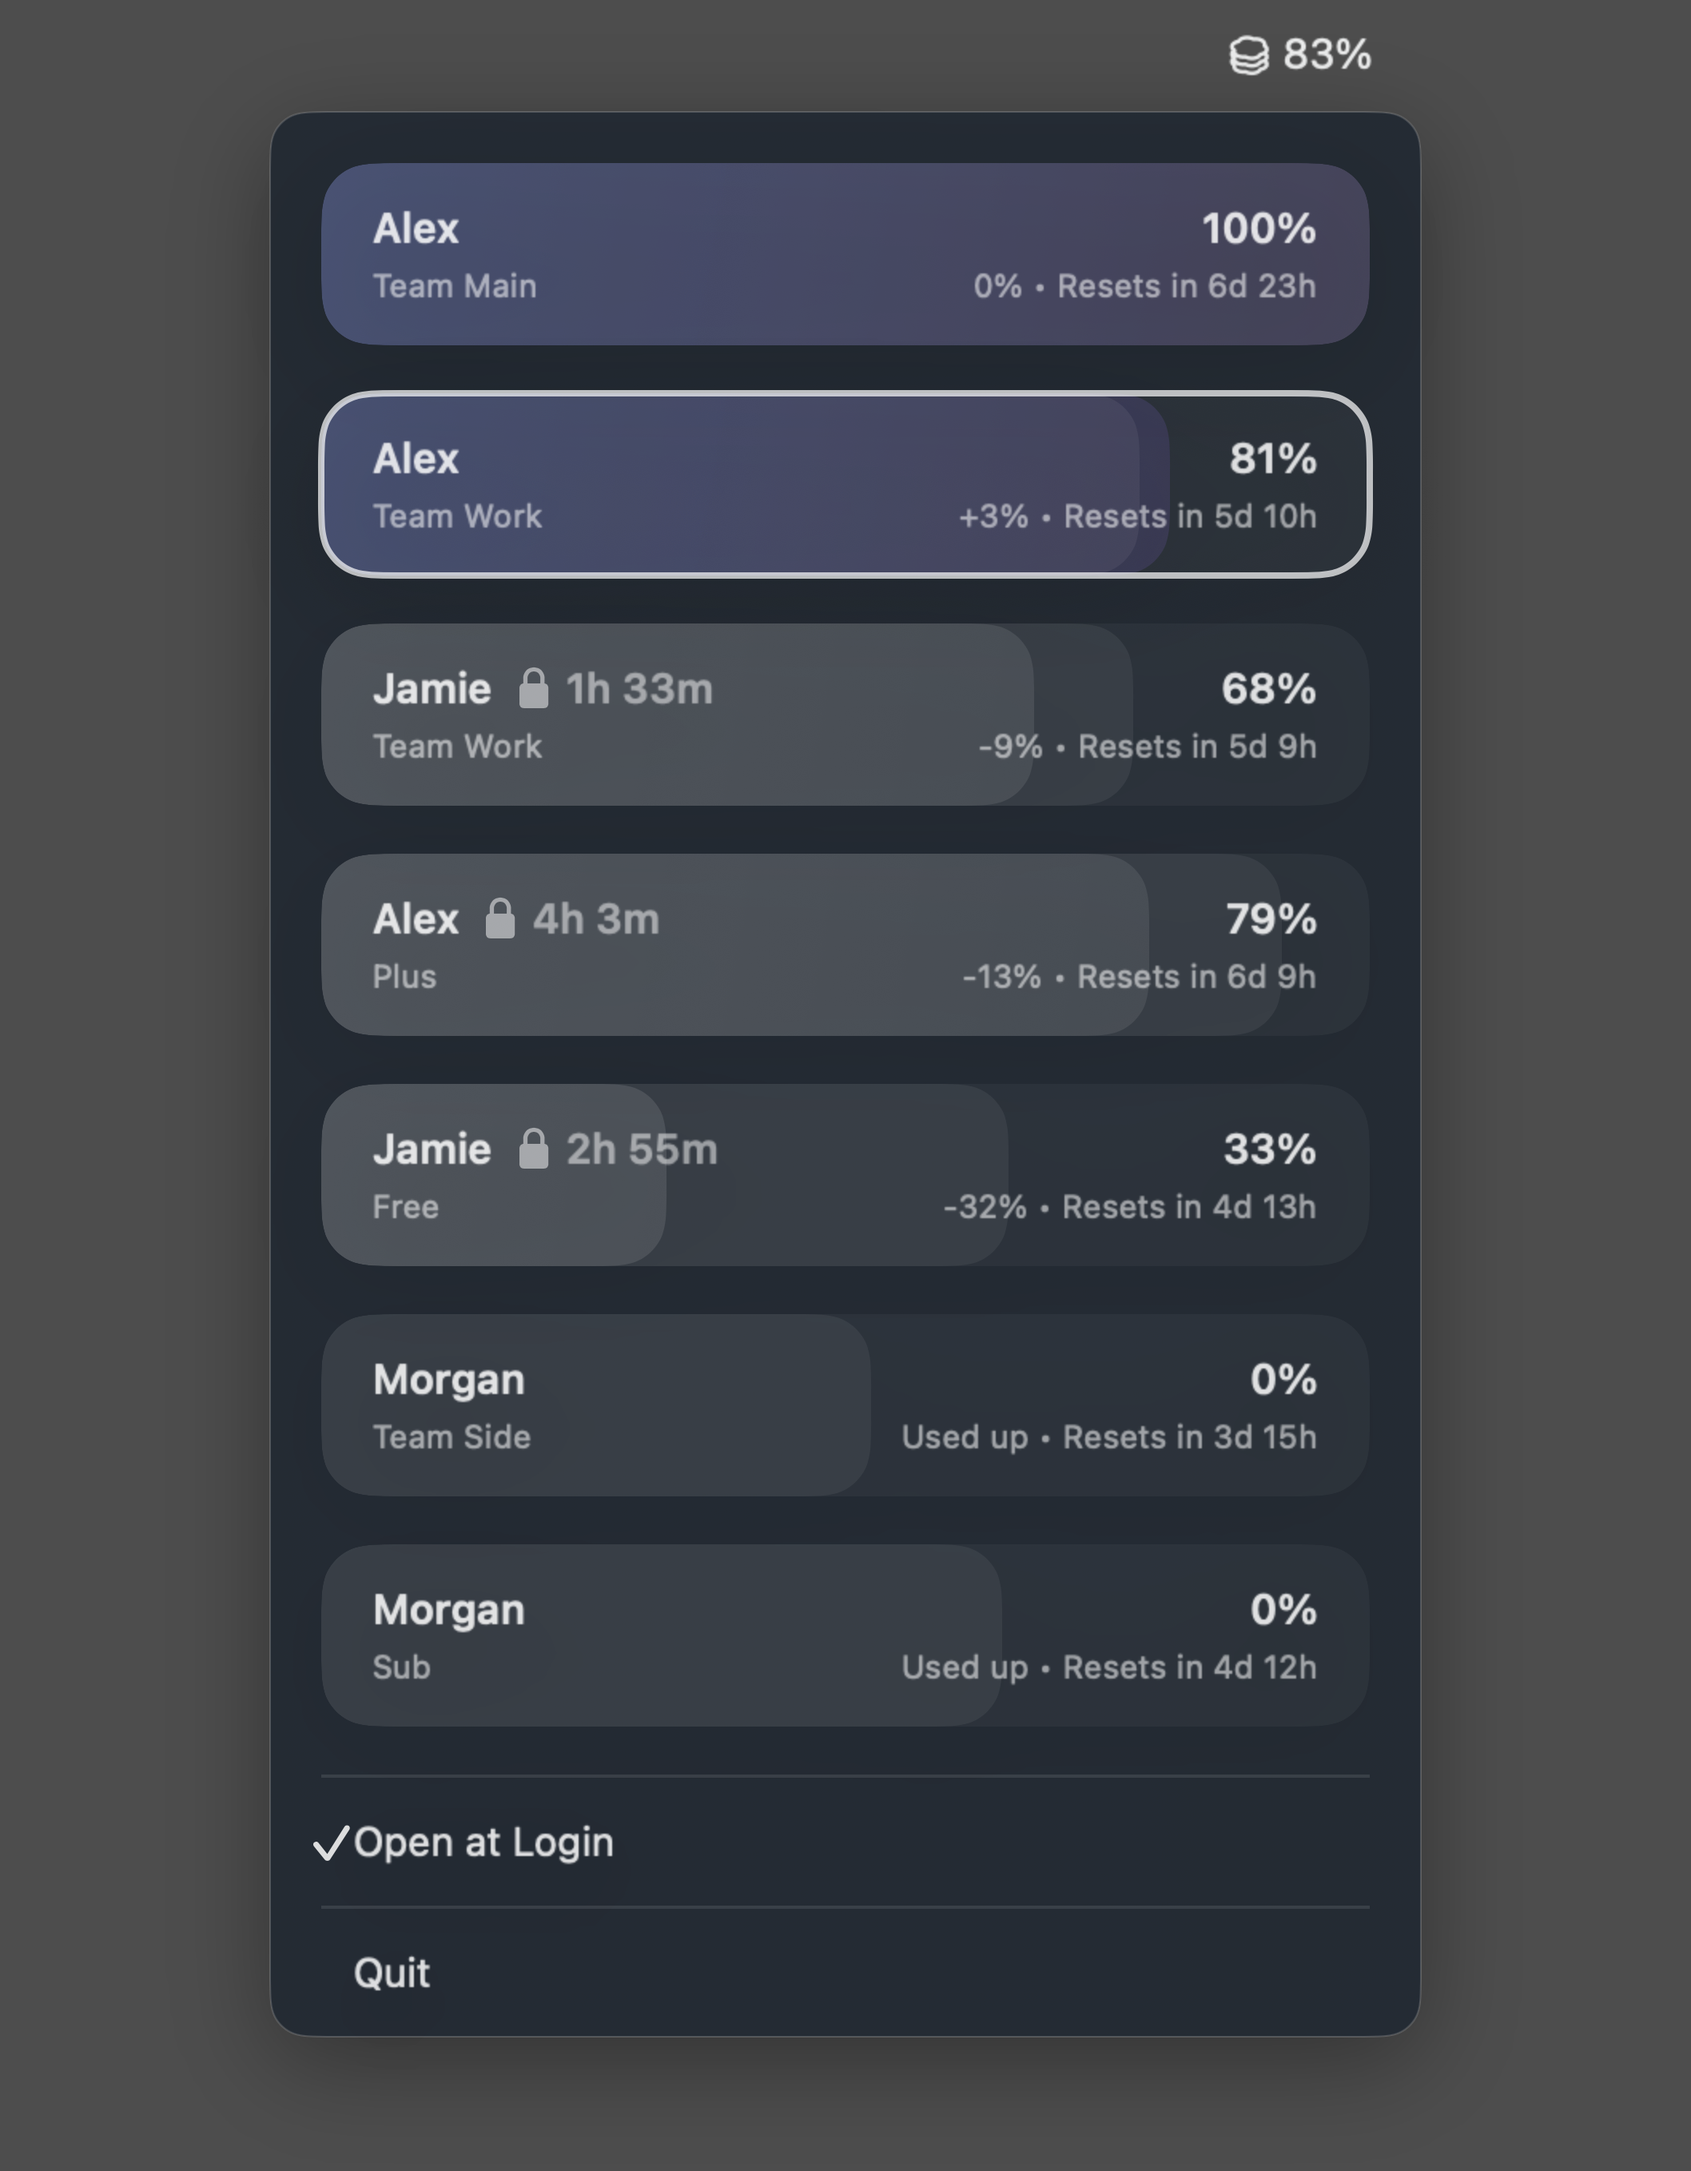
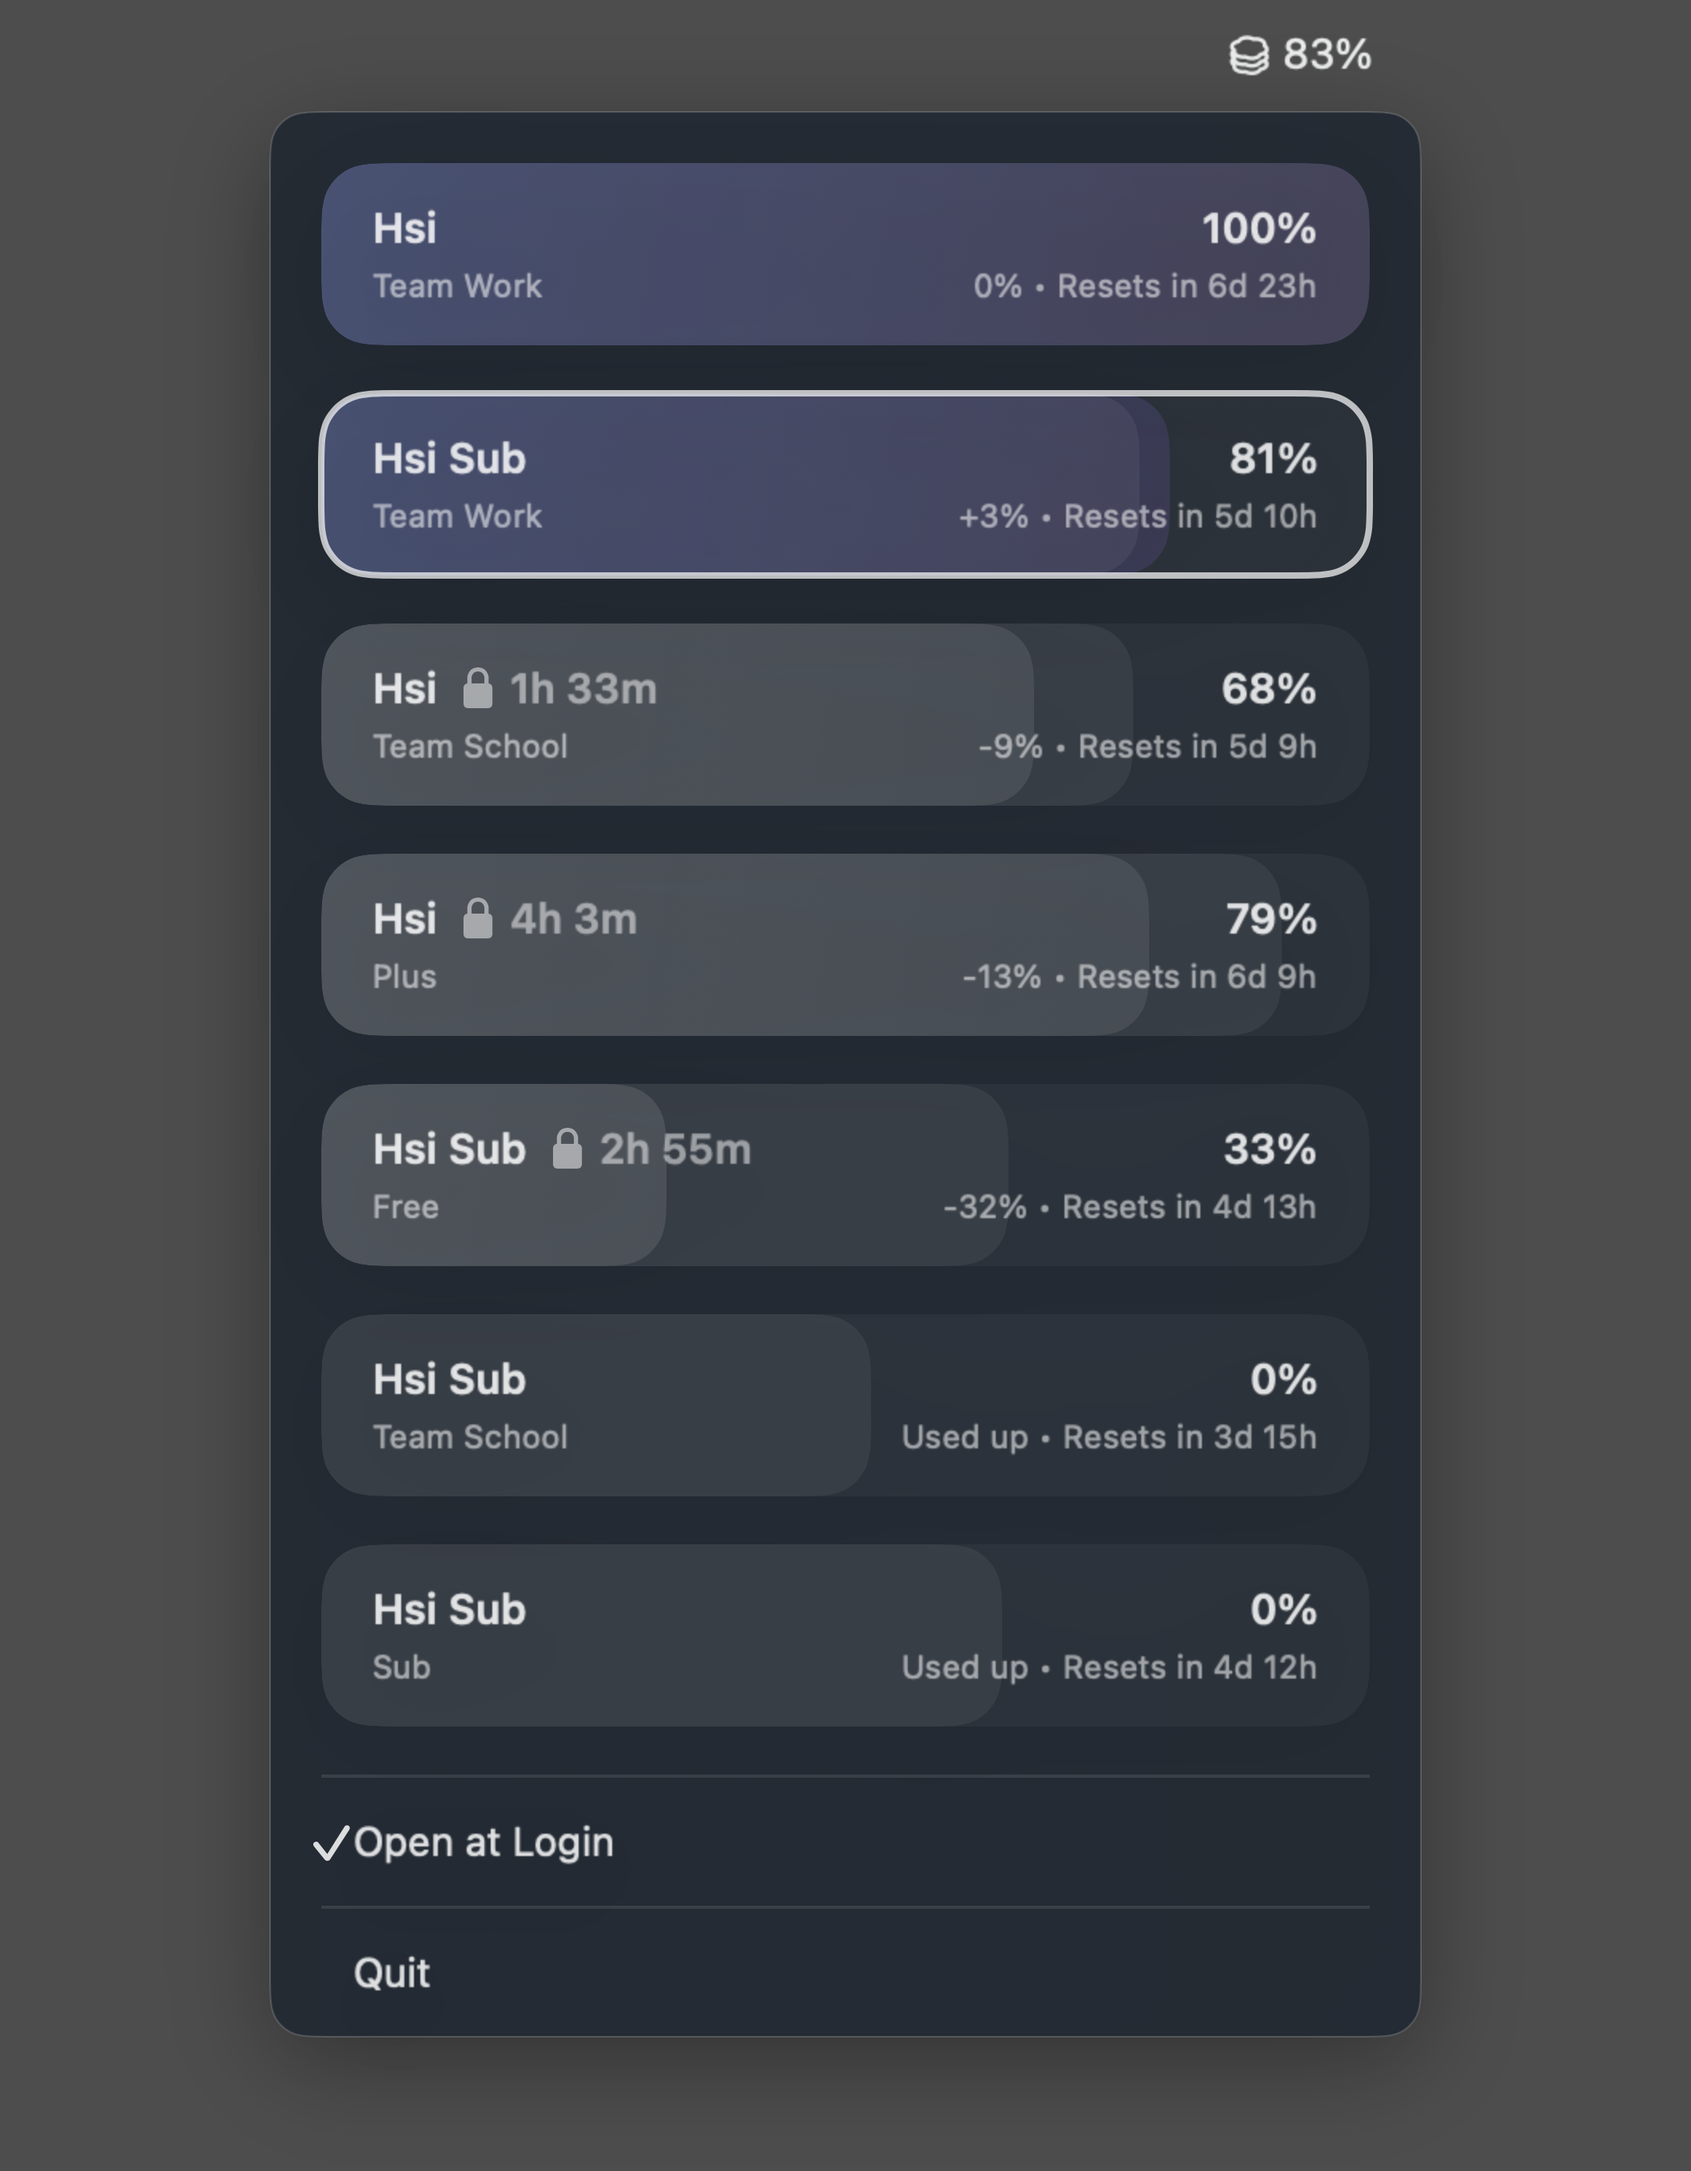
fix: tune demo mockup account contexts

diff --git a/tools/DemoMockup.swift b/tools/DemoMockup.swift
@@ -331,9 +331,9 @@ private func demoAccounts() -> [AccountSnapshot] {
 
     return [
         makeAccount(
-            id: "alex-main",
-            label: "Alex",
-            workspaceLabel: "Main",
+            id: "hsi-work-main",
+            label: "Hsi",
+            workspaceLabel: "Work",
             plan: "Codex Team",
             isCurrent: false,
             weeklyUsedPercentage: 0,
@@ -343,8 +343,8 @@ private func demoAccounts() -> [AccountSnapshot] {
             now: now
         ),
         makeAccount(
-            id: "alex-work",
-            label: "Alex",
+            id: "hsi-sub-work",
+            label: "Hsi Sub",
             workspaceLabel: "Work",
             plan: "Codex Team",
             isCurrent: true,
@@ -355,9 +355,9 @@ private func demoAccounts() -> [AccountSnapshot] {
             now: now
         ),
         makeAccount(
-            id: "jamie-work",
-            label: "Jamie",
-            workspaceLabel: "Work",
+            id: "hsi-school",
+            label: "Hsi",
+            workspaceLabel: "School",
             plan: "Codex Team",
             isCurrent: false,
             weeklyUsedPercentage: 32,
@@ -367,8 +367,8 @@ private func demoAccounts() -> [AccountSnapshot] {
             now: now
         ),
         makeAccount(
-            id: "alex-plus",
-            label: "Alex",
+            id: "hsi-plus",
+            label: "Hsi",
             workspaceLabel: "Personal",
             plan: "Codex Plus",
             isCurrent: false,
@@ -379,8 +379,8 @@ private func demoAccounts() -> [AccountSnapshot] {
             now: now
         ),
         makeAccount(
-            id: "jamie-free",
-            label: "Jamie",
+            id: "hsi-sub-free",
+            label: "Hsi Sub",
             workspaceLabel: "Personal",
             plan: "Codex Free",
             isCurrent: false,
@@ -391,9 +391,9 @@ private func demoAccounts() -> [AccountSnapshot] {
             now: now
         ),
         makeAccount(
-            id: "morgan-side",
-            label: "Morgan",
-            workspaceLabel: "Side",
+            id: "hsi-sub-school",
+            label: "Hsi Sub",
+            workspaceLabel: "School",
             plan: "Codex Team",
             isCurrent: false,
             weeklyUsedPercentage: 100,
@@ -403,8 +403,8 @@ private func demoAccounts() -> [AccountSnapshot] {
             now: now
         ),
         makeAccount(
-            id: "morgan-sub",
-            label: "Morgan",
+            id: "hsi-sub-plus",
+            label: "Hsi Sub",
             workspaceLabel: "Sub",
             plan: "Codex Plus",
             isCurrent: false,
